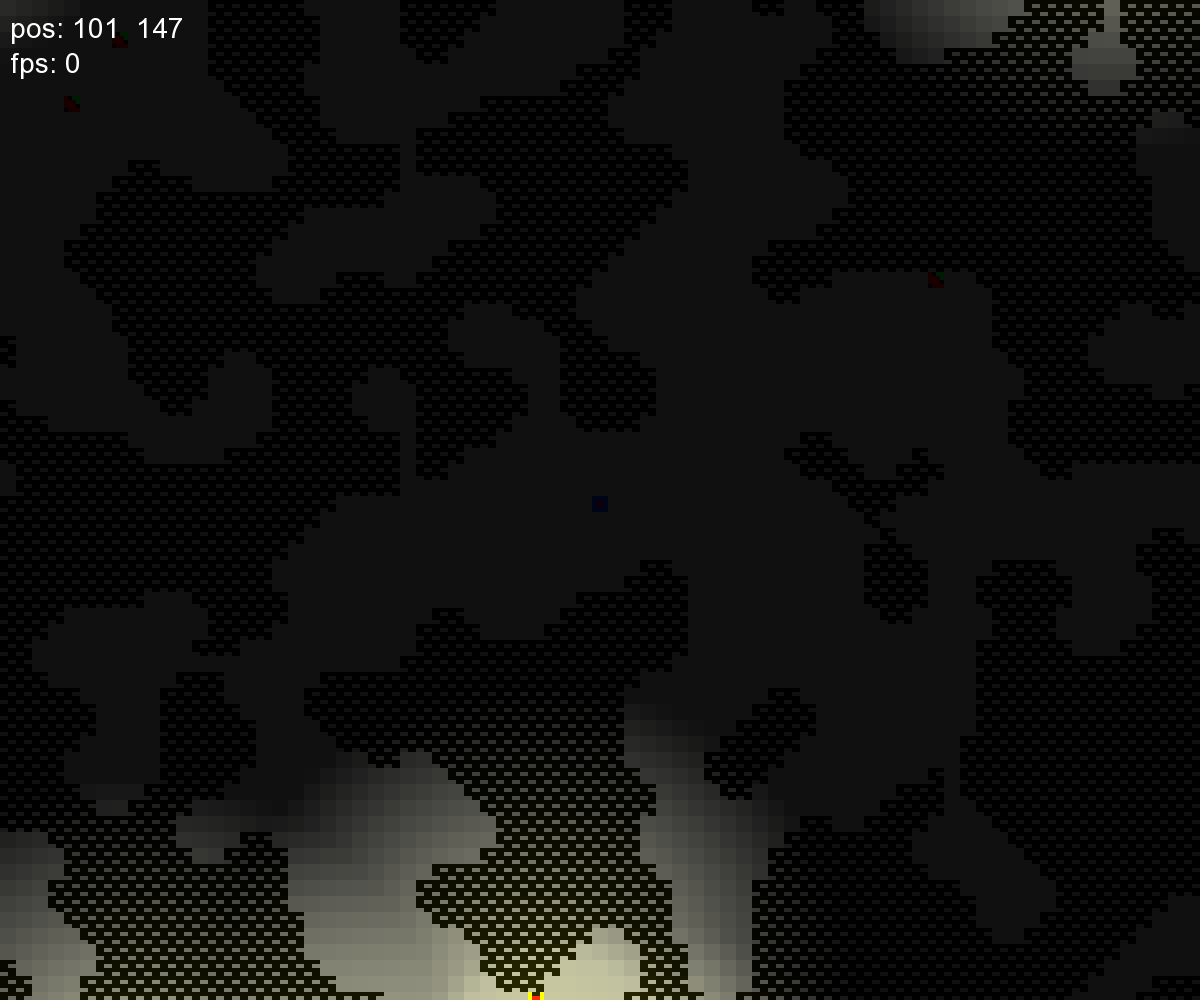
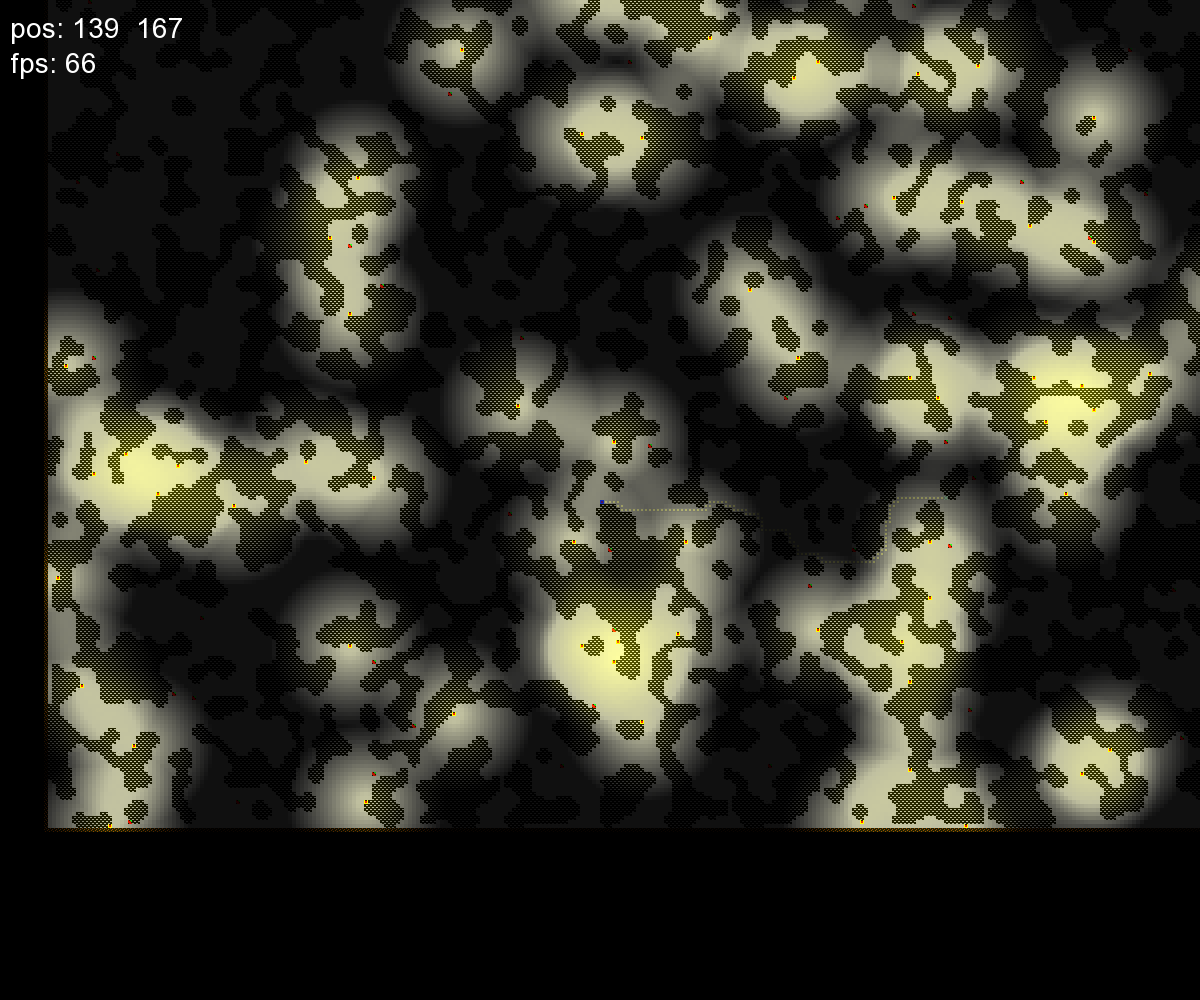
fix connectivity was not guaranteed(lamps)

diff --git a/src/Life.cpp b/src/Life.cpp
@@ -30,7 +30,7 @@ Object OBJECTS[COUNT_OBJECTS] = {
     {SYM_OBJ_BORDER,    COUNT_OBJ_INF,      false,  "images/Texture/TextureBorder.png", 100, 0, {}},
     {SYM_OBJ_PLAYER,    COUNT_OBJ_PLAYER,   true,   "images/Texture/TexturePlayer.png", 0,   0, {}},
     {SYM_OBJ_COIN,      COUNT_OBJ_COIN,     true,   "images/Texture/TextureCoin.png",   10,  0, {}},
-    {SYM_OBJ_LAMP,      COUNT_OBJ_LAMP,     false,  "images/Texture/TextureLamp.png",   0,   2, {SYM_OBJ_WALL, SYM_OBJ_BORDER}},
+    {SYM_OBJ_LAMP,      COUNT_OBJ_LAMP,     false,  "images/Texture/TextureLamp.png",   0,   2, {SYM_OBJ_WALL}},
     {SYM_OBJ_PATH,      COUNT_OBJ_PATH,     true,   "images/Texture/TexturePath.png",   0,   0, {}},
     {SYM_OBJ_DEST,      COUNT_OBJ_PATH,     true,   "images/Texture/TextureDest.png",   0,   0, {}},
     {SYM_OBJ_IMDEST,    COUNT_OBJ_PATH,     true,   "images/Texture/TextureImDest.png", 0,   0, {}},
@@ -53,12 +53,11 @@ static void set_lighting    (Map_t* map);
 static void set_light_lamp  (Map_t* map, int x, int y);
 static void map_write2file  (char* map, FILE* f);
 static void count_free_pos  (char* map, int* count_free, int* frees_ind);
-static void select_free_pos (char* map, char* free_pos, int count_free, int* frees_ind);
+static void select_free_pos (char* map, char* free_pos, int count_free, int* frees_ind, PlayerSet_t* PlayerSet);
 static bool check_neighbors (Object* src_obj, char* map, int pos);
-static void set_free_pos    (char* map, PlayerSet_t* PlayerSet);
 static int  is_obj_on_border(int x, int y);
 static int  obj_can_set     (char* map, int map_ind);
-static int  get_obj_index   (int obj_sym);
+static int get_obj_index    (int obj_sym);
 
 int pos_in_pix_window(int x, int y)
 {
@@ -293,15 +292,10 @@ static void map_room_delete(MapRoom_t* map_room)
 
 static void set_lighting(Map_t* map)
 {
-    int ind_obj_lamp = -1;
-    for (int i = 0; i < COUNT_OBJECTS; i++)
-        if (OBJECTS[i].symbol == SYM_OBJ_LAMP)
-            ind_obj_lamp = i;
-
     memset(map->light, 25, BYTE_HEIGHT * BYTE_WIDTH);
     for (int i = 0; i < BYTE_HEIGHT; i++) {
         for (int j = 0; j < BYTE_WIDTH; j++) {
-            if (OBJECTS[ind_obj_lamp].symbol == map->map[i * BYTE_WIDTH + j]) {
+            if (map->map[i * BYTE_WIDTH + j] == SYM_OBJ_LAMP) {
                 set_light_lamp(map, j, i);
             }
         }
@@ -315,7 +309,7 @@ static void set_light_lamp(Map_t* map, int x, int y)
         for (int dx = -light_dist; dx <= light_dist; dx++) {
             int dpos = pos + dy * BYTE_WIDTH + dx;
 
-            if ((dpos < 0) || (dpos > BYTE_HEIGHT * BYTE_WIDTH -1))
+            if ((dpos < 0) || (dpos > BYTE_HEIGHT * BYTE_WIDTH))
                 continue;
 
             if (dx + x >= BYTE_WIDTH || dx + x < 0)
@@ -395,8 +389,7 @@ static void map_fill_empty(char* map, PlayerSet_t* PlayerSet)
     count_free_pos(map, &count_free, frees_ind);
     
     char* free_pos = (char*) calloc((size_t)count_free, sizeof(char));
-    select_free_pos(map, free_pos, count_free, frees_ind);
-    set_free_pos(map, PlayerSet);
+    select_free_pos(map, free_pos, count_free, frees_ind, PlayerSet);
 
     free(free_pos);
     free(frees_ind);
@@ -411,29 +404,33 @@ static void count_free_pos(char* map, int* count_free, int* frees_ind)
                 if (map[pos] == OBJECTS[k].symbol && OBJECTS[k].can_go) {
                     frees_ind[*count_free] = pos;
                     (*count_free)++;
+                    break;
                 }
             }
         }
     }
 }
 
-static void select_free_pos(char* map, char* free_pos, int count_free, int* frees_ind)
+static void select_free_pos(char* map, char* free_pos, int count_free, int* frees_ind, PlayerSet_t* PlayerSet)
 {
     for (int i = 0; i < COUNT_OBJECTS; i++) {
         if (OBJECTS[i].count <= 0) 
             continue;
 
-        OBJECTS[i].pos_num_free = (int*) malloc((size_t)OBJECTS[i].count * sizeof(int));
         for (int j = 0; j < OBJECTS[i].count; j++) {
-            int pos = rand() % count_free;
-
             while (1) {
+                int pos = rand() % count_free;
                 if (!free_pos[pos] && check_neighbors(&OBJECTS[i], map, frees_ind[pos])) {
-                    OBJECTS[i].pos_num_free[j] = pos;
+                    map[frees_ind[pos]] = OBJECTS[i].symbol;
+
+                    if (OBJECTS[i].symbol == SYM_OBJ_PLAYER) {
+                        PlayerSet->px = frees_ind[pos] % BYTE_WIDTH;
+                        PlayerSet->py = frees_ind[pos] / BYTE_WIDTH;
+                    }
+
                     free_pos[pos] = 1;
                     break;
                 }
-                pos = rand() % count_free;
             }
         }
     }
@@ -441,62 +438,41 @@ static void select_free_pos(char* map, char* free_pos, int count_free, int* free
 
 static bool check_neighbors(Object* src_obj, char* map, int pos)
 {
+    for (int dy = -1; dy <= 1; dy++) {
+        for (int dx = -1; dx <= 1; dx++) {
+            if (dx == 0 && dy == 0)
+                continue;
+
+            int dpos = pos + dy * BYTE_WIDTH + dx;
+            if (dpos < 0 || dpos >= BYTE_HEIGHT * BYTE_WIDTH)
+                continue;
+
+            if (src_obj->symbol == SYM_OBJ_LAMP &&
+                map[dpos] == SYM_OBJ_LAMP)
+                return false;
+
+            if (map[dpos] == SYM_OBJ_TUNNEL)
+                return false;
+        }
+    }
+
     if (src_obj->count_neighbors == 0) 
         return true;
 
     for (int dy = -1; dy <= 1; dy++) {
         for (int dx = -1; dx <= 1; dx++) {
-            if (abs(dx) + abs(dy) != 1)
-                continue;
-            
-            for (int i = 0; i < src_obj->count_neighbors; i++) {
-                for (int j = 0; j < COUNT_OBJECTS; j++) {
-                    if (OBJECTS[j].symbol == map[pos + dy * BYTE_WIDTH + dx] &&
-                        OBJECTS[j].symbol == src_obj->neighbors[i])
-                        return true;
+            if (abs(dx) + abs(dy) == 1) {
+                for (int i = 0; i < src_obj->count_neighbors; i++) {
+                    for (int j = 0; j < COUNT_OBJECTS; j++) {
+                        if (OBJECTS[j].symbol == map[pos + dy * BYTE_WIDTH + dx] &&
+                            OBJECTS[j].symbol == src_obj->neighbors[i])
+                            return true;
+                    }
                 }
             }
         }
     }
     return false;
-}
-
-static void set_free_pos(char* map, PlayerSet_t* PlayerSet)
-{
-    int count_free = 0;
-    for (int i = 0; i < BYTE_HEIGHT; i++) {
-        for (int j = 0; j < BYTE_WIDTH; j++) {
-            bool skip = false;
-            for (int k = 0; k < COUNT_OBJECTS; k++) {
-                if (map[i * BYTE_WIDTH + j] == OBJECTS[k].symbol && !OBJECTS[k].can_go) {
-                    skip = true;
-                    break;
-                }
-            }
-            if (skip) continue;
-
-            for (int k = 0; k < COUNT_OBJECTS; k++) {
-                if (OBJECTS[k].count <= 0) 
-                    continue;
-
-                bool was = false;
-                for (int m = 0; m < OBJECTS[k].count; m++) {
-                    if (count_free == OBJECTS[k].pos_num_free[m]) {
-                        map[i * BYTE_WIDTH + j] = OBJECTS[k].symbol;
-
-                        if (OBJECTS[k].symbol == SYM_OBJ_PLAYER) {
-                            PlayerSet->px = j;
-                            PlayerSet->py = i;
-                        }
-                        was = true;
-                        break;
-                    }
-                }
-                if (was) break;
-            }
-            count_free++;
-        }
-    }
 }
 
 static void map_write2file(char* map, FILE* f) 
@@ -529,19 +505,6 @@ static int obj_can_set(char* map, int map_ind)
     for (int k = 0; k < COUNT_OBJECTS; k++)
         if (map[map_ind] == OBJECTS[k].symbol && !OBJECTS[k].can_go)
             return 0;
-
-    for (int dy = -1; dy <= 1; dy++) {
-        for (int dx = -1; dx <= 1; dx++) {
-            if (dx == 0 && dy == 0) continue;
-            
-            int pos = map_ind + dy * BYTE_WIDTH + dx;
-            if (pos < 0 || pos >= BYTE_HEIGHT * BYTE_WIDTH)
-                continue;
-
-            if (map[pos] == SYM_OBJ_TUNNEL)
-                return 0;
-        }
-    }
     return 1;
 }
 

diff --git a/src/Window.cpp b/src/Window.cpp
@@ -75,7 +75,4 @@ static void free_window_stuff(sf::Uint8* pixels, char* pos_string, char* fps_str
     free(pixels);
     free(pos_string);
     free(fps_string);
-
-    for (int i = 0; i < COUNT_OBJECTS; i++)
-        free(OBJECTS[i].pos_num_free);
 }

diff --git a/src/Config.h b/src/Config.h
@@ -70,7 +70,6 @@ struct Object {
     const int count_neighbors;
     ObjectsSymbols neighbors[COUNT_OBJECTS];
     unsigned char bytes_color[hbyte2pix * wbyte2pix * 4];
-    int* pos_num_free;
 };
 extern Object OBJECTS[COUNT_OBJECTS];
 
